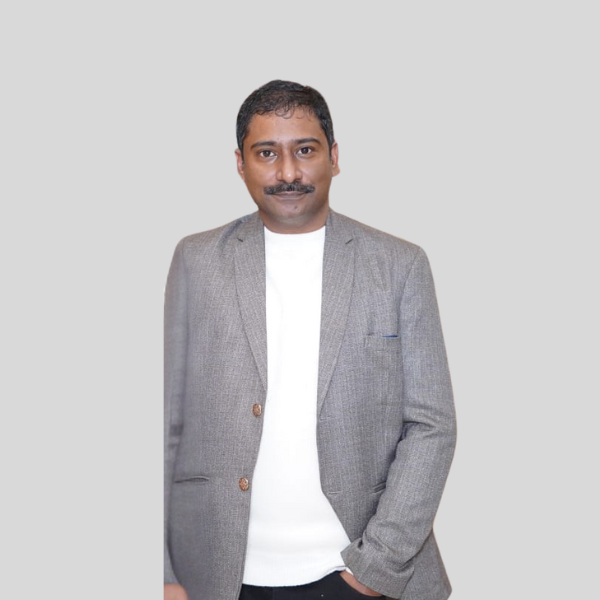
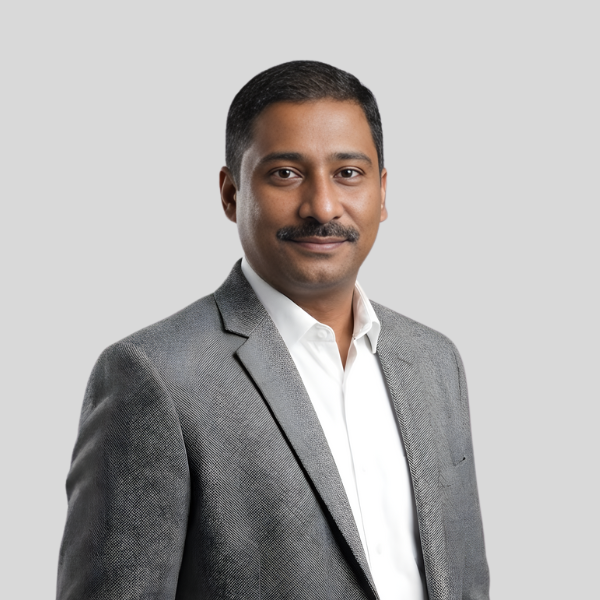
Fix image, header

diff --git a/app/components/layout/Navbar.tsx b/app/components/layout/Navbar.tsx
@@ -13,7 +13,6 @@ import { Button } from "../ui/Button";
 const serviceMenuItems = services.map((service) => ({
   label: service.title,
   href: `/services/${service.slug}`,
-  description: service.hero.subtitle.slice(0, 80) + "...",
 }));
 
 export function Navbar() {
@@ -132,9 +131,6 @@ export function Navbar() {
                         <span className="block text-sm font-semibold text-gray-900 group-hover/item:text-primary transition-colors">
                           {item.label}
                         </span>
-                        <span className="block text-xs text-gray-500 mt-0.5 line-clamp-1">
-                          {item.description}
-                        </span>
                       </Link>
                     ))}
                   </div>
@@ -248,9 +244,6 @@ export function Navbar() {
                     >
                       <span className="block text-sm font-semibold text-gray-900">
                         {item.label}
-                      </span>
-                      <span className="block text-xs text-gray-500 mt-0.5 line-clamp-2">
-                        {item.description}
                       </span>
                     </Link>
                   ))}
